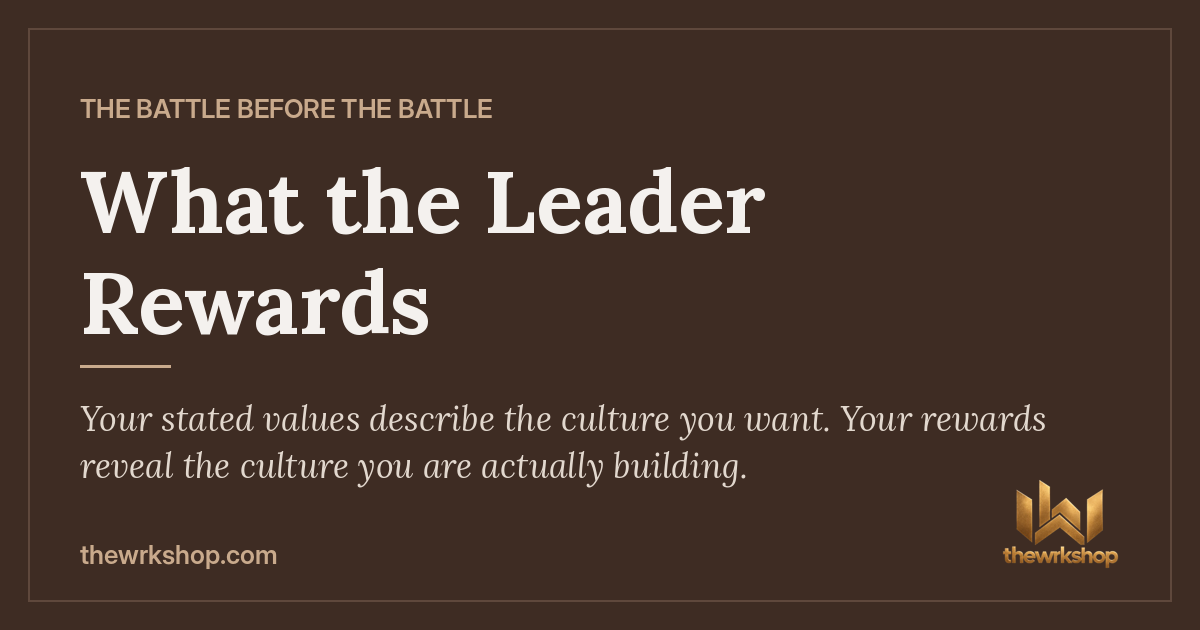
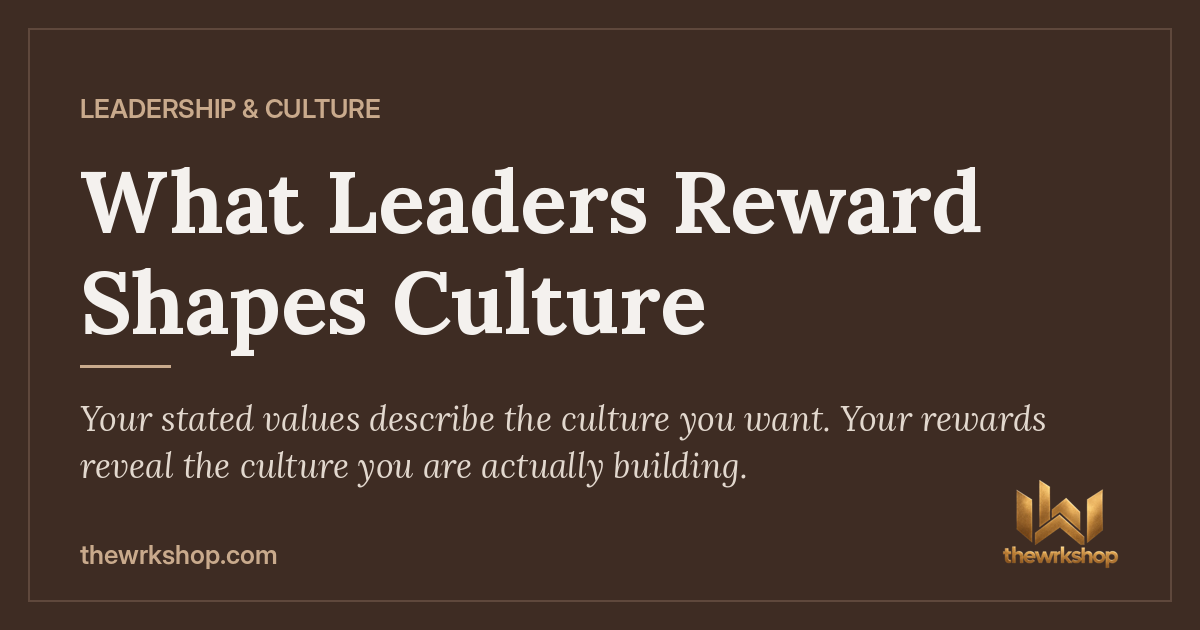
Lead leadership posts with their leadership headline at /leadership/<slug>/
- Optional headline / headline_sub / slug fields: the headline becomes the H1,
  search title and share title; the series moves to a note at the bottom
- Leadership posts with a slug live at /leadership/<slug>/ with a Leadership &
  Culture banner; the old /daily/ link 301s there, and archive, homepage,
  prev/next, feed and email links use the new address
- Redirect moves and release guards now go before the /daily/* passthrough
  (Netlify uses the first matching rule)
- Daily template uses absolute asset paths
- Oct 19: What Leaders Reward Shapes Culture (/leadership/what-leaders-reward/)
  Oct 20: What Leaders Tolerate Becomes Culture (/leadership/what-leaders-tolerate/)
- Social cards now lead with Leadership & Culture and the headline

Claude-Session: https://claude.ai/code/session_01Qa8atdx8Y47jdE4V5fsB8f

Changed region(s): [[0.2775, 0.2714, 0.8325, 0.3921], [0.0617, 0.4222, 0.5858, 0.573], [0.0617, 0.1508, 0.4317, 0.2111]]

diff --git a/scripts/build-daily.js b/scripts/build-daily.js
@@ -422,6 +422,7 @@ async function readDailyEntries() {
 async function rebuildDailyOutputDir() {
   try {
     await fs.rm(DAILY_DIR, { recursive: true, force: true });
+    await fs.rm(LEADERSHIP_DIR, { recursive: true, force: true });
   } catch {}
   await fs.mkdir(DAILY_DIR, { recursive: true });
 }
@@ -444,7 +445,7 @@ async function writeArchiveJson(visible) {
       title: e.title || '',
       subtitle: e.subtitle || '',
       verse_ref: e.verse_ref || '',
-      href: `/daily/${fileNameFor(e)}`
+      href: pagePathFor(e)
     }));
 
   await fs.writeFile(
@@ -474,7 +475,7 @@ async function writeLatestDailyJson(visible) {
 
   const dailyData = {
     date: todayEntry.date,
-    href: `/daily/${fileNameFor(todayEntry)}`,
+    href: pagePathFor(todayEntry),
     title: todayEntry.title || '',
     subtitle: todayEntry.subtitle || '',
     tagline: todayEntry.tagline || '',
@@ -517,8 +518,18 @@ async function buildDailyPages(visible) {
       OG_IMAGE: escapeHtml(seo.image),
       JSON_LD: jsonLdFor(e, seo),
       SERIES_HTML: eyebrowHtml(e),
-      TITLE: escapeHtml(e.title || 'Untitled'),
-      SUBTITLE_HTML: e.subtitle ? `<span class="daily-subtitle" id="dSubtitle">${escapeHtml(e.subtitle)}</span>` : '',
+      HERO_TITLE: hasLeadershipPage(e) ? 'Leadership &amp; Culture' : 'Daily',
+      HERO_SUB: hasLeadershipPage(e)
+        ? 'For leaders, managers, coaches, pastors and parents.'
+        : 'Scripture, reflection, and one clear step to live it out.',
+      TITLE: escapeHtml(cleanString(e.headline) || e.title || 'Untitled'),
+      SUBTITLE_HTML: (() => {
+        const sub = cleanString(e.headline) ? cleanString(e.headline_sub) : cleanString(e.subtitle);
+        return sub ? `<span class="daily-subtitle" id="dSubtitle">${escapeHtml(sub)}</span>` : '';
+      })(),
+      SERIES_NOTE_HTML: cleanString(e.headline) && cleanString(e.series)
+        ? `<p class="daily-series-note">Part of the series <em>${escapeHtml(cleanString(e.series))}</em></p>`
+        : '',
       TAGLINE_HTML: e.tagline ? `<p class="daily-tagline" id="dTagline">${escapeHtml(e.tagline)}</p>` : '',
       HUMAN_DATE: toHuman(e.date),
       DATE: e.date,
@@ -527,8 +538,8 @@ async function buildDailyPages(visible) {
       INSIGHT_HTML: buildInsightHTML(e),
       ONE_MINUTE_WIN: actionSection ? sectionToPlainText(actionSection) : (e.one_minute_win || ''),
       DECLARATION: declarationSection ? sectionToPlainText(declarationSection) : (e.declaration || ''),
-      PREV_HREF: prev ? `./${fileNameFor(prev)}` : '#',
-      NEXT_HREF: next ? `./${fileNameFor(next)}` : '#'
+      PREV_HREF: prev ? pagePathFor(prev) : '#',
+      NEXT_HREF: next ? pagePathFor(next) : '#'
     });
 
     // Drop the Action Step / Declaration boxes when this daily doesn't have them
@@ -536,7 +547,9 @@ async function buildDailyPages(visible) {
       .replace(/\s*<section class="daily-section">\s*<h3>Action Step<\/h3>\s*<div class="action-step" id="dActionStep">\s*<\/div>\s*<\/section>/, '')
       .replace(/\s*<section class="daily-section">\s*<h3>Declaration<\/h3>\s*<p class="declaration-text" id="dDeclaration">\s*<\/p>\s*<\/section>/, '');
 
-    await fs.writeFile(path.join(DAILY_DIR, fileNameFor(e)), cleaned, 'utf-8');
+    const outFile = pageFileFor(e);
+    await fs.mkdir(path.dirname(outFile), { recursive: true });
+    await fs.writeFile(outFile, cleaned, 'utf-8');
   }
 }
 
@@ -551,8 +564,25 @@ async function buildDailyPages(visible) {
 // Every field is optional; posts without them get sensible defaults.
 
 const DEFAULT_OG_IMAGE = '/assets/og/the-daily.png';
+const LEADERSHIP_DIR = path.join(ROOT, 'leadership');
 const DEFAULT_DESCRIPTION = 'Daily devotional: scripture, reflection, and a practical next step.';
 const LEADERSHIP_CATEGORY = 'Leadership & Culture';
+
+// Where a post lives on the site. Leadership posts with a "slug" get a clean
+// /leadership/<slug>/ address; everything else stays at /daily/<file>.html.
+function hasLeadershipPage(e) {
+  return cleanString(e.category) === LEADERSHIP_CATEGORY && /^[a-z0-9-]+$/.test(cleanString(e.slug));
+}
+
+function pagePathFor(e) {
+  return hasLeadershipPage(e) ? `/leadership/${cleanString(e.slug)}/` : `/daily/${fileNameFor(e)}`;
+}
+
+function pageFileFor(e) {
+  return hasLeadershipPage(e)
+    ? path.join(LEADERSHIP_DIR, cleanString(e.slug), 'index.html')
+    : path.join(DAILY_DIR, fileNameFor(e));
+}
 
 function absoluteUrl(p = '') {
   if (/^https?:\/\//i.test(p)) return p;
@@ -567,11 +597,12 @@ function truncate(text = '', max = 160) {
 }
 
 function displayTitle(e) {
+  if (cleanString(e.headline)) return cleanString(e.headline);
   return [e.title || 'Daily', e.subtitle].filter(Boolean).join(': ');
 }
 
 function seoFor(e) {
-  const url = `${SITE_URL}/daily/${fileNameFor(e)}`;
+  const url = `${SITE_URL}${pagePathFor(e)}`;
   const seoTitle = cleanString(e.seo_title) || `${displayTitle(e)} | TheWrkShop`;
   const description = truncate(cleanString(e.seo_description) || cleanString(e.tagline) || `${displayTitle(e)}. ${DEFAULT_DESCRIPTION}`);
   return {
@@ -633,8 +664,7 @@ async function buildLeadershipHub(visible) {
     .slice()
     .reverse();
 
-  const outDir = path.join(ROOT, 'leadership');
-  await fs.rm(outDir, { recursive: true, force: true });
+  const outDir = LEADERSHIP_DIR;
   await fs.mkdir(outDir, { recursive: true });
 
   const tplPath = path.join(ROOT, 'templates', 'leadership.html');
@@ -645,11 +675,11 @@ async function buildLeadershipHub(visible) {
         const seo = seoFor(e);
         return `
       <article class="lead-card">
-        ${e.series ? `<p class="lead-series">${escapeHtml(e.series)}</p>` : ''}
-        <h2><a href="/daily/${fileNameFor(e)}">${escapeHtml(e.subtitle || e.title || 'Daily')}</a></h2>
+        <h2><a href="${pagePathFor(e)}">${escapeHtml(cleanString(e.headline) || e.subtitle || e.title || 'Daily')}</a></h2>
+        ${cleanString(e.headline_sub) ? `<p class="lead-sub">${escapeHtml(cleanString(e.headline_sub))}</p>` : ''}
         ${e.tagline ? `<p class="lead-tagline">${escapeHtml(e.tagline)}</p>` : ''}
         <p class="lead-meta"><time datetime="${e.date}">${toHuman(e.date)}</time>${e.verse_ref ? ` · ${escapeHtml(e.verse_ref)}` : ''}</p>
-        <a class="lead-read" href="/daily/${fileNameFor(e)}" aria-label="Read ${escapeHtml(seo.socialTitle)}">Read →</a>
+        <a class="lead-read" href="${pagePathFor(e)}" aria-label="Read ${escapeHtml(seo.socialTitle)}">Read →</a>
       </article>`;
       }).join('\n')
     : '<p>New leadership posts are on the way.</p>';
@@ -665,7 +695,7 @@ async function buildLeadershipHub(visible) {
       itemListElement: posts.map((e, i) => ({
         '@type': 'ListItem',
         position: i + 1,
-        url: `${SITE_URL}/daily/${fileNameFor(e)}`,
+        url: `${SITE_URL}${pagePathFor(e)}`,
         name: seoFor(e).socialTitle
       }))
     }
@@ -689,7 +719,7 @@ function xmlEscape(value = '') {
 
 async function writeDailyFeed(visible) {
   const items = visible.slice(-20).reverse().map(e => {
-    const url = `${SITE_URL}/daily/${fileNameFor(e)}`;
+    const url = `${SITE_URL}${pagePathFor(e)}`;
     const title = [e.title || 'Daily', e.subtitle].filter(Boolean).join(' — ');
     const pubDate = new Date(`${e.date}T06:01:00Z`).toUTCString(); // just after midnight Central
     const html = dailyBodyHtml(e, url).replace(/]]>/g, ']]&gt;');
@@ -718,17 +748,16 @@ ${items}
   await fs.writeFile(path.join(DAILY_DIR, 'feed.xml'), xml, 'utf-8');
 }
 
-async function writeGuardRedirects(older, future) {
-  const guardLines = [
+function guardAndMoveLines(visible, older, future) {
+  return [
+    // posts that moved to /leadership/<slug>/ keep their old daily link working
+    ...visible.filter(hasLeadershipPage).map(e => `/daily/${fileNameFor(e)}   ${pagePathFor(e)}   301!`),
     ...older.map(e => `/daily/${fileNameFor(e)}   /daily-archive.html   302!`),
     ...future.map(e => `/daily/${fileNameFor(e)}   /daily-archive.html   302!`)
   ];
-
-  await mergeRedirectLines(guardLines);
 }
 
 async function main() {
-  await ensurePassthroughs();
   await fs.mkdir(DATA_DIR, { recursive: true });
 
   const entries = await readDailyEntries();
@@ -736,13 +765,16 @@ async function main() {
 
   const { visible, future, older } = partitionEntries(entries, today);
 
+  // Netlify uses the first matching rule, so moves and guards go before the passthroughs
+  await mergeRedirectLines(guardAndMoveLines(visible, older, future));
+  await ensurePassthroughs();
+
   await rebuildDailyOutputDir();
   await writeArchiveJson(visible);
   await writeLatestDailyJson(visible);
   await buildDailyPages(visible);
   const leadershipCount = await buildLeadershipHub(visible);
   await writeDailyFeed(visible);
-  await writeGuardRedirects(older, future);
 
   console.log(
     `Built ${visible.length} daily pages in [${START_DATE}..${today}]. Older blocked: ${older.length}. Future blocked: ${future.length}. Leadership hub: ${leadershipCount} posts.`

diff --git a/templates/daily.html b/templates/daily.html
@@ -4,8 +4,8 @@
   <meta charset="UTF-8"/>
   <meta name="viewport" content="width=device-width, initial-scale=1.0"/>
   <title>{{SEO_TITLE}}</title>
-  <link rel="stylesheet" href="../style.css"/>
-  <link rel="icon" type="image/x-icon" href="../assets/favicon/favicon.ico?v=2">
+  <link rel="stylesheet" href="/style.css"/>
+  <link rel="icon" type="image/x-icon" href="/assets/favicon/favicon.ico?v=2">
   <meta name="description" content="{{SEO_DESCRIPTION}}"/>
   <link rel="canonical" href="{{CANONICAL_URL}}"/>
   <meta property="og:site_name" content="TheWrkShop"/>
@@ -99,6 +99,12 @@
     }
 
     .daily-series:hover { text-decoration: underline; }
+
+    .daily-series-note {
+      color: #6b5b53;
+      font-size: .9rem;
+      margin: 1.25rem 0 0;
+    }
 
     .share-row {
       display: flex;
@@ -249,8 +255,8 @@
   <div id="site-header"></div>
 
   <section class="page-hero">
-    <p class="page-hero-title">Daily</p>
-    <p>Scripture, reflection, and one clear step to live it out.</p>
+    <p class="page-hero-title">{{HERO_TITLE}}</p>
+    <p>{{HERO_SUB}}</p>
   </section>
 
   <main class="daily-wrap">
@@ -283,6 +289,8 @@
         <p class="declaration-text" id="dDeclaration">{{DECLARATION}}</p>
       </section>
 
+      {{SERIES_NOTE_HTML}}
+
       <div class="share-row" aria-label="Share this devotional">
         <span class="share-label">Share</span>
         <button type="button" class="share-native" data-url="{{CANONICAL_URL}}" data-title="{{SOCIAL_TITLE}}">Share…</button>
@@ -295,7 +303,7 @@
 
       <div class="nav-archive">
         <a href="{{PREV_HREF}}" id="prevDay">← Previous</a>
-        <a href="../daily-archive.html">See Archive →</a>
+        <a href="/daily-archive.html">See Archive →</a>
         <a href="{{NEXT_HREF}}" id="nextDay">Next →</a>
       </div>
     </article>
@@ -320,7 +328,7 @@
     </div>
   </footer>
 
-  <script src="../script.js"></script>
+  <script src="/script.js"></script>
   <script>
     (function () {
       var nativeBtn = document.querySelector('.share-native');

diff --git a/templates/leadership.html b/templates/leadership.html
@@ -52,6 +52,7 @@
     .lead-card h2 a { color:#3e2c23; text-decoration:none; }
     .lead-card h2 a:hover { text-decoration:underline; }
 
+    .lead-sub { color:#6b4a36; font-weight:600; margin:0 0 .4rem; }
     .lead-tagline { font-style:italic; color:#3e2c23; line-height:1.6; margin:0 0 .5rem; }
     .lead-meta { color:#6b5b53; font-size:.9rem; margin:0 0 .5rem; }
     .lead-read { color:#3e2c23; font-weight:700; text-decoration:none; }
